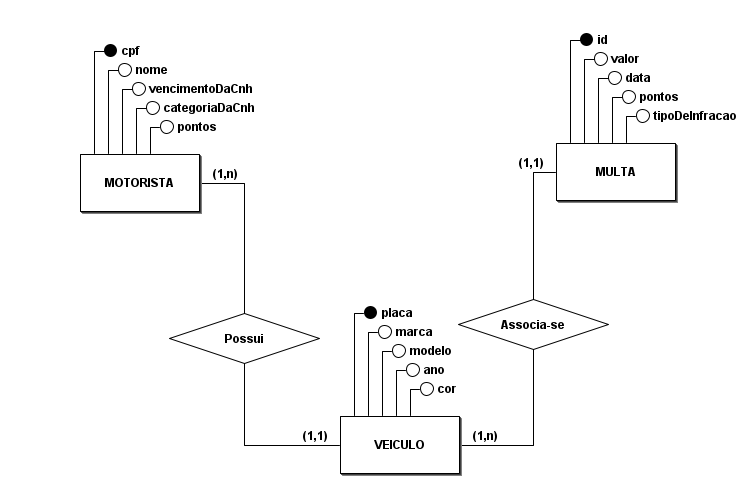
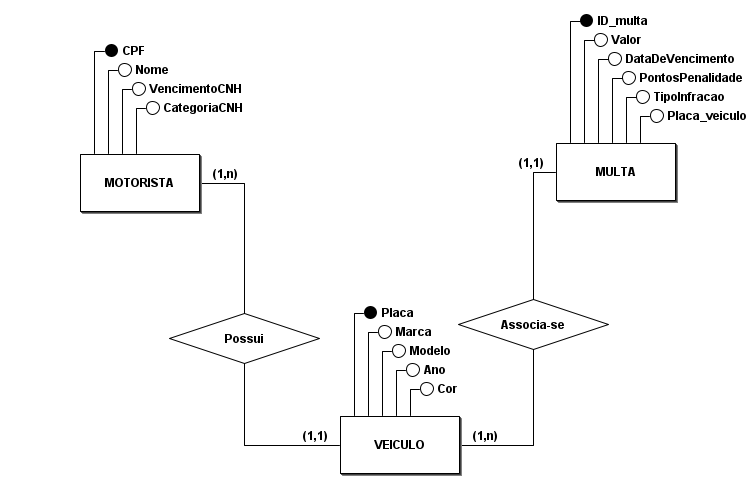
Modificação do banco

diff --git a/src/repositories/driverRepository.ts b/src/repositories/driverRepository.ts
@@ -1,19 +1,41 @@
 import { mysqlConn } from "../base/mysql"
-import { driverSchema, type Driver } from "../schemas/driver.schema"
+import { driverSchema } from "../schemas/driver.schema"
+import { finesSchema } from "../schemas/fines.schema";
+import { vehicleSchema } from "../schemas/vehicle.schema";
 
-const createDriver = async (cpf:string,nome:string,cnh:Date,cat:string,pontos:number) =>
-    await mysqlConn.execute("INSERT INTO MOTORISTA (cpf, nome, vencimentoDaCnh, categoriaDaCnh,pontos) VALUES (?, ?, ?, ?, ?)",
-    [cpf,nome,cnh,cat,pontos]) 
+const createDriver = async (cpf:string,nome:string,cnh:Date,cat:string) =>
+    await mysqlConn.execute("INSERT INTO Motoristas (CPF, Nome, VencimentoCNH, CategoriaCNH) VALUES (?, ?, ?, ?)",
+    [cpf,nome,cnh,cat]) 
 
 
 const readDrivers = async ()=>{
-    const drivers = await mysqlConn.execute("SELECT * FROM MOTORISTA");
+    const drivers = await mysqlConn.execute("SELECT * FROM Motoristas;");
     return driverSchema.array().parse(drivers) ;
+}
+
+const readVehicles = async (cpf:string)=>{
+    const vehicles = await mysqlConn.execute(`SELECT m.*, v.*
+                                            FROM Motoristas m
+                                            JOIN Veiculos v ON m.CPF = v.CPF_motorista;`);
+    return vehicleSchema.array().parse(vehicles);
+}
+
+const readFines = async (cpf:string)=>{
+    const fines = await mysqlConn.execute(`SELECT m.*, v.Placa
+                                        FROM Motoristas m
+                                        JOIN Veiculos v ON m.CPF = v.CPF_motorista
+                                        JOIN Multas m ON v.Placa = m.Placa_veiculo;`);
+    return finesSchema.array().parse(fines);
 }
 
 const readThreePointsDrivers = async ()=>{
-    const drivers = await mysqlConn.execute("SELECT * FROM MOTORISTA WHERE pontos >= 10");
+    const drivers = await mysqlConn.execute(`SELECT m.CPF AS motorista, SUM(M.PontosPenalidade) AS pontos
+                                            FROM Motoristas m
+                                            JOIN Veiculos v ON m.CPF = v.CPF_motorista
+                                            JOIN Multas mu ON v.Placa = mu.Placa_veiculo
+                                            GROUP BY m.CPF
+                                            HAVING SUM(mu.PontosPenalidade) >= 10;`);
     return driverSchema.array().parse(drivers) ;
 }
 
-export default {createDriver,readDrivers,readThreePointsDrivers}
+export default {createDriver,readDrivers,readVehicles,readThreePointsDrivers,readFines}

diff --git a/src/routes/driverRoutes.ts b/src/routes/driverRoutes.ts
@@ -6,8 +6,8 @@ import driverRepository from "../repositories/driverRepository";
 const router = Router();
 
 router.post("/create", async (req, res) => {
-    const {cpf,nome,vencimentoDaCnh,categoriaDaCnh,pontos} = driverSchema.parse(req.body);
-    await driverRepository.createDriver(cpf,nome,vencimentoDaCnh,categoriaDaCnh,pontos);
+    const {cpf,nome,vencimentoDaCnh,categoriaDaCnh} = driverSchema.parse(req.body);
+    await driverRepository.createDriver(cpf,nome,vencimentoDaCnh,categoriaDaCnh);
     return res.status(200);
 });
 
@@ -16,6 +16,20 @@ router.get("/readAll", async (req, res) => {
     if(drivers.length < 1)
         return res.status(404);
     return res.json(drivers).status(200);
+});
+
+router.get("/readVehicles/:cpf", async (req, res) => {
+    const vehicles = await driverRepository.readVehicles(req.params.cpf);
+    if(vehicles.length < 1)
+        return res.status(404);
+    return res.json(vehicles).status(200);
+});
+
+router.get("/readFines/:cpf", async (req, res) => {
+    const fines = await driverRepository.readFines(req.params.cpf);
+    if(fines.length < 1)
+        return res.status(404);
+    return res.json(fines).status(200);
 });
 
 router.get("/readThreePoints", async (req, res) => {

diff --git a/src/repositories/vehicleRepository.ts b/src/repositories/vehicleRepository.ts
@@ -1,15 +1,8 @@
-import { mysqlConn } from "../base/mysql"
-import { vehicleSchema } from "../schemas/vehicle.schema";
+import { mysqlConn } from "../base/mysql";
 
-const createVehicle = async (placa:string,marca:string,cor:string,ano:number,modelo:string) =>
-    await mysqlConn.execute("INSERT INTO VEICULO (placa, marca, modelo, ano, cor) VALUES (?, ?, ?, ?, ?)",
-    [placa, marca, modelo, ano, cor]) 
-
-
-const readVehicles = async ()=>{
-    const drivers = await mysqlConn.execute("SELECT * FROM VEICULO");
-    return vehicleSchema.array().parse(drivers) ;
-}
+const createVehicle = async (placa:string,marca:string,cor:string,ano:number,modelo:string,cpf:string) =>
+    await mysqlConn.execute("INSERT INTO Veiculos (Placa, Marca, Modelo, Ano, Cor,CPF_motorista) VALUES (?, ?, ?, ?, ?, ?)",
+    [placa, marca, modelo, ano, cor,cpf]) 
 
 
-export default {createVehicle,readVehicles}
+export default {createVehicle}

diff --git a/src/repositories/finesRepository.ts b/src/repositories/finesRepository.ts
@@ -1,15 +1,7 @@
 import { mysqlConn } from "../base/mysql"
-import { finesSchema } from "../schemas/fines.schema";
 
-const createFines = async (valor:number,dataDaMulta:Date,pontos:number,tipoDeInfracao:string) =>
-    await mysqlConn.execute("INSERT INTO MULTA (valor, dataDaMulta, pontos, tipoDeInfracao) VALUES (?, ?, ?, ?)",
-    [valor, dataDaMulta, pontos, tipoDeInfracao]) 
+const createFines = async (valor:number,dataDaMulta:Date,pontos:number,tipoDeInfracao:string,placa:string) =>
+    await mysqlConn.execute("INSERT INTO Multas (Valor, DataDeVencimento, PontosPenalidade, TipoInfracao,Placa_veiculo) VALUES (?, ?, ?, ?, ?)",
+    [valor, dataDaMulta, pontos, tipoDeInfracao,placa]) 
 
-
-const readFines = async ()=>{
-    const fines = await mysqlConn.execute("SELECT * FROM MULTA");
-    return finesSchema.array().parse(fines) ;
-}
-
-
-export default {createFines,readFines}
+export default {createFines}

diff --git a/src/routes/finesRoutes.ts b/src/routes/finesRoutes.ts
@@ -5,18 +5,10 @@ import finesRepository from "../repositories/finesRepository";
 const router = Router();
 
 router.post("/create", async (req, res) => {
-    const {valor, dataDaMulta, pontos, tipoDeInfracao} = finesSchema.parse(req.body);
-    await finesRepository.createFines(valor, dataDaMulta, pontos, tipoDeInfracao);
+    const {valor, dataDaMulta, pontos, tipoDeInfracao,placaVeiculo} = finesSchema.parse(req.body);
+    await finesRepository.createFines(valor, dataDaMulta, pontos, tipoDeInfracao,placaVeiculo);
     return res.status(200);
 });
-
-router.get("/readAll", async (req, res) => {
-    const fines = await finesRepository.readFines();
-    if(fines.length < 1)
-        return res.status(404);
-    return res.json(fines).status(200)
-});
-
 
 export default router;
 

diff --git a/src/routes/vehicleRoutes.ts b/src/routes/vehicleRoutes.ts
@@ -5,18 +5,10 @@ import vehicleRepository from "../repositories/vehicleRepository";
 const router = Router();
 
 router.post("/create", async (req, res) => {
-    const {placa,marca,modelo,ano,cor} = vehicleSchema.parse(req.body);
-    await vehicleRepository.createVehicle(placa,marca,cor,ano,modelo);
+    const {placa,marca,modelo,ano,cor,CPFmotorista} = vehicleSchema.parse(req.body);
+    await vehicleRepository.createVehicle(placa,marca,cor,ano,modelo,CPFmotorista);
     return res.status(200);
 });
-
-router.get("/readAll", async (req, res) => {
-    const vehicles = await vehicleRepository.readVehicles();
-    if(vehicles.length < 1)
-        return res.status(404);
-    return res.json(vehicles).status(200)
-});
-
 
 export default router;
 

diff --git a/src/schemas/vehicle.schema.ts b/src/schemas/vehicle.schema.ts
@@ -2,10 +2,11 @@ import {z} from "zod"
 
 export const vehicleSchema = z.object({
     placa: z.string().max(8).nonempty(),
-    marca: z.string().max(15).nonempty(),
-    modelo: z.string().max(15).nonempty(),
+    marca: z.string().max(50).nonempty(),
+    modelo: z.string().max(50).nonempty(),
     ano: z.number(),
-    cor: z.string().max(10).nonempty(),
+    cor: z.string().max(20).nonempty(),
+    CPFmotorista : z.string().max(14).nonempty(),
 })
 
 export type Vehicle = z.infer<typeof vehicleSchema>;

diff --git a/src/schemas/driver.schema.ts b/src/schemas/driver.schema.ts
@@ -2,10 +2,9 @@ import {z} from "zod"
 
 export const driverSchema = z.object({
     cpf:z.string().max(14).nonempty(),
-    nome:z.string().max(50).nonempty(),
+    nome:z.string().max(100).nonempty(),
     vencimentoDaCnh: z.date(),
     categoriaDaCnh: z.string().max(2).nonempty(),
-    pontos: z.number().int().positive(),
 });
 
 export type Driver = z.infer<typeof driverSchema>

diff --git a/src/schemas/fines.schema.ts b/src/schemas/fines.schema.ts
@@ -6,6 +6,7 @@ export const finesSchema = z.object({
     dataDaMulta: z.date(),
     pontos: z.number().int().positive(),
     tipoDeInfracao: z.string().max(50).nonempty(),
+    placaVeiculo: z.string().max(50).nonempty(),
 });
 
 export type Fines = z.infer<typeof finesSchema>;
